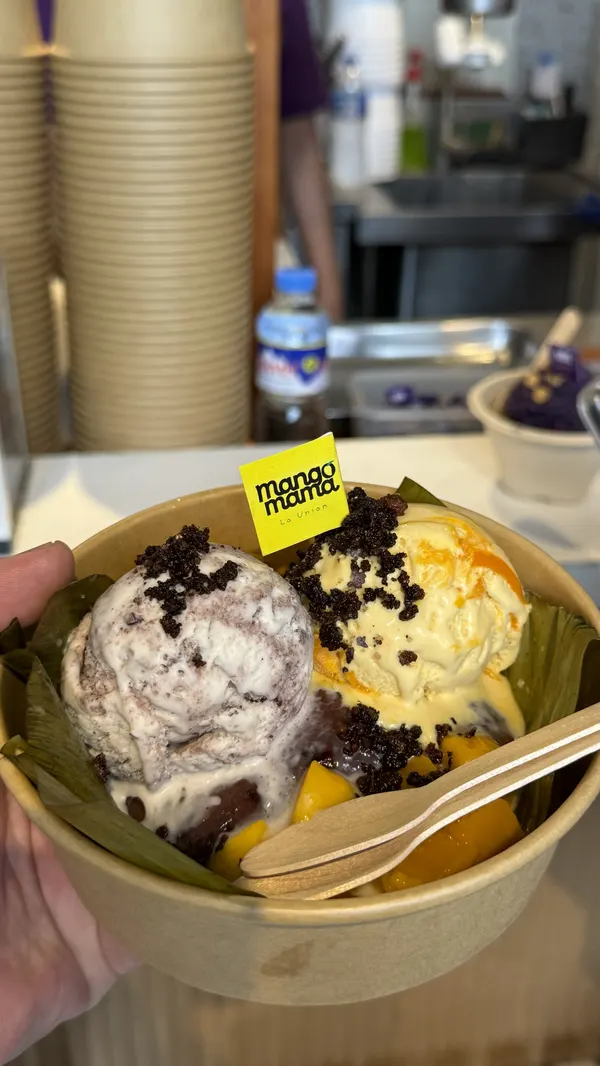
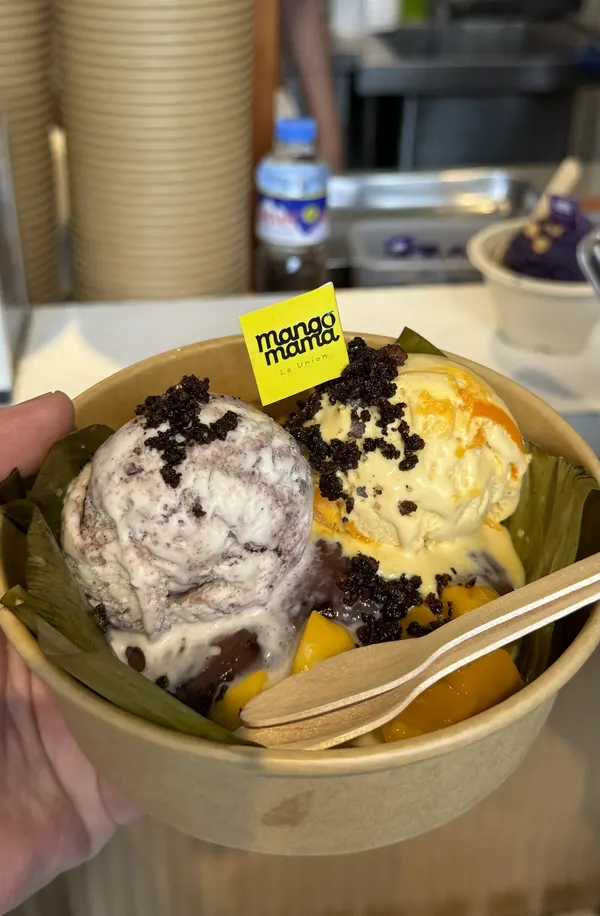
Fix La Union trip recap details and tighten photo crops
The Benguet arch photo was a quick five-meter detour on the drive up
Saturday, not the Sunday turnaround, and the restaurant photo is
Baybay Seafood Grill (first lunch stop), not Naknak Eatery. Reordered
the story to match the real timeline. Also swapped the article hero
to the candid group photo, and cropped the trip's portrait photos to
trim excess sky/floor space while keeping every subject fully in frame.

diff --git a/la-union-trip/index.html b/la-union-trip/index.html
@@ -310,9 +310,9 @@
   </div>
 
   <div class="article-hero-photo reveal">
-    <img src="/assets/gallery/photo-35.webp" alt="OCPC members posing together on the beach in La Union" loading="lazy">
+    <img src="/assets/gallery/photo-43.webp" alt="OCPC members laughing together candidly during the La Union trip" loading="lazy">
   </div>
-  <div class="article-hero-caption">One Cavite Pickleball Club · La Union beach, before the rain</div>
+  <div class="article-hero-caption">One Cavite Pickleball Club · La Union crew, caught mid-laugh</div>
 
   <div class="article-body">
 
@@ -325,6 +325,32 @@
       short, we extended the La Union stay by a night instead, turning what was meant to be a
       quick two-day run into three days on the coast: <b>August 8 to 10, 2026</b>.
     </p>
+
+    <h2>Wheels in Benguet</h2>
+    <p>
+      On the drive up Saturday morning, before we'd even set foot in La Union, we made a quick
+      detour through the "Welcome to Benguet Province" arch: crossed it for maybe five meters,
+      then pulled a U-turn right back onto the highway. At the time it was just a fun photo op.
+      We had no idea yet that this would be as close as we'd get to Baguio all trip. At least
+      the wheels made it to Benguet, even if we didn't.
+    </p>
+
+    <div class="article-inline-photo">
+      <img src="/assets/gallery/photo-38.webp" alt="OCPC members posing at the Welcome to Benguet Province arch on the drive up" loading="lazy">
+    </div>
+    <div class="article-inline-caption">Five meters into Benguet, then a U-turn back to La Union</div>
+
+    <h2>Lunch First: Baybay Seafood Grill</h2>
+    <p>
+      We rolled into La Union around lunchtime and headed straight to <b>Baybay Seafood
+      Grill</b>, our first stop of the trip. Good food, good company, and a proper meal before
+      anything else got underway.
+    </p>
+
+    <div class="article-inline-photo">
+      <img src="/assets/gallery/photo-40.webp" alt="OCPC members having lunch at Baybay Seafood Grill in La Union" loading="lazy">
+    </div>
+    <div class="article-inline-caption">First meal of the trip, Baybay Seafood Grill</div>
 
     <h2>Beach Before Anything Else</h2>
     <p>
@@ -360,19 +386,13 @@
     </div>
     <div class="article-inline-caption">Open play, Union Athletics Sports Complex</div>
 
-    <h2>As Far As the Arch</h2>
+    <h2>Baguio, Officially Off</h2>
     <p>
-      Sunday was supposed to be the day we left La Union for Baguio. We actually started the
-      drive, and made it as far as the "Welcome to Benguet Province" arch before the danger
-      became impossible to ignore. Flash floods and landslide risk along the mountain road
-      meant turning back was the only responsible choice, so we did, and rerouted straight back
-      to La Union for one more night instead.
+      Sunday was supposed to be the day we actually made the climb to Baguio. Instead, we found
+      out it really wasn't happening: flash floods and landslide risk along the mountain road
+      made the call for us. No point pushing it, so we stayed put in La Union for one more night
+      instead of forcing a trip that wasn't safe to make.
     </p>
-
-    <div class="article-inline-photo">
-      <img src="/assets/gallery/photo-38.webp" alt="OCPC members posing at the Welcome to Benguet Province arch before turning back" loading="lazy">
-    </div>
-    <div class="article-inline-caption">As far as we got: the Benguet Province welcome arch</div>
 
     <h2>An Extra Night, Naknak Supremacy</h2>
     <p>
@@ -382,15 +402,10 @@
       <b>Mango Mama</b>, because no beach town trip is complete without ice cream.
     </p>
 
-    <div class="photo-pair">
-      <div class="article-inline-photo">
-        <img src="/assets/gallery/photo-40.webp" alt="OCPC members enjoying dinner out in La Union" loading="lazy">
-      </div>
-      <div class="article-inline-photo">
-        <img src="/assets/gallery/photo-39.webp" alt="Mango Mama ice cream bowl in La Union" loading="lazy">
-      </div>
+    <div class="article-inline-photo">
+      <img src="/assets/gallery/photo-39.webp" alt="Mango Mama ice cream bowl in La Union" loading="lazy">
     </div>
-    <div class="article-inline-caption">Dinner out, and Mango Mama for dessert</div>
+    <div class="article-inline-caption">Mango Mama, the trip's unofficial dessert stop</div>
 
     <h2>Round Two, Unplanned</h2>
     <p>

diff --git a/events/index.html b/events/index.html
@@ -320,10 +320,10 @@
             <span>🏓 Union Athletics Sports Complex &amp; PaddlePoint La Union</span>
           </div>
           <p class="event-desc">
-            The Baguio leg got cancelled after flash flood and landslide danger turned us back at the
-            Benguet Province arch, so we extended our La Union stay instead: beach time with big waves,
-            two rain-soaked open play sessions, Naknak Eatery, and a closing night at Flotsam. A three-day
-            trip out of what was supposed to be two.
+            The Baguio leg got cancelled by flash flood and landslide danger, so we extended our La Union
+            stay instead: beach time with big waves, two rain-soaked open play sessions, Baybay Seafood
+            Grill, Naknak Eatery, and a closing night at Flotsam. A three-day trip out of what was
+            supposed to be two.
           </p>
           <div class="event-actions">
             <a class="btn btn-primary" href="/la-union-trip/">Read the full story</a>

diff --git a/gallery/index.html b/gallery/index.html
@@ -403,6 +403,7 @@
   // ================= PHOTOS =================
   // Add/remove entries here to update the gallery. thumb = grid image, full = lightbox image.
   const photos = [
+    { thumb: "/assets/gallery/thumb-43.webp", full: "/assets/gallery/photo-43.webp" },
     { thumb: "/assets/gallery/thumb-34.webp", full: "/assets/gallery/photo-34.webp" },
     { thumb: "/assets/gallery/thumb-35.webp", full: "/assets/gallery/photo-35.webp" },
     { thumb: "/assets/gallery/thumb-36.webp", full: "/assets/gallery/photo-36.webp" },
